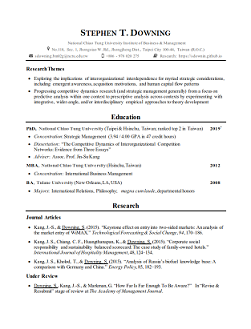
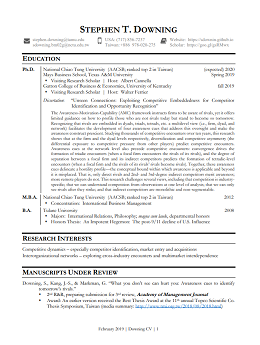
udpates thumbnails and moves cases to teaching sec

diff --git a/_pages/cases.html b/_pages/cases.html
@@ -1,6 +1,6 @@
 ---
 layout: archive
-title: "Business Cases"
+title: "Published Teaching Cases"
 permalink: /cases/
 author_profile: true
 ---

diff --git a/_teaching/2015-02-19-cconma.com-in-south-korea.md b/_teaching/2015-02-19-cconma.com-in-south-korea.md
@@ -1,0 +1,25 @@
+---
+title: "Cconma.com in South Korea: An Innovative E-Commerce Platform"
+collection: teaching
+permalink: /teaching/2015-02-19-cconma-in-south-korea
+excerpt: "<a href='/case/2015-02-19-cconma-in-south-korea'><img src='/images/cconma_in_south_korea_thumbnail_png.png' style='max-height:100px;'></a><br/><br/>We investigate the link between a firm's corporate social performance and financial performance using the service-profit chain model"
+type: "Teaching Case: Undergraduate or First-Year MBA Course"
+date: 2015-02-19
+venue: 'Ivey Cases'
+paperurl: 'https://www.iveycases.com/ProductView.aspx?id=70598'
+---
+
+
+### Summary
+In August 2012, the chief executive officer of Cconma.com, an online shopping mall based in Chung-Ju, South Korea, is considering his company’s future. The company has grown substantially since it was founded in 2005 and is now preparing to further expand into Hong Kong, China or to a second location in the United States. The company’s vision, rooted in an ethic of corporate social responsibility, is to build a happy and healthy community, including employees, customers and sellers. By focusing on its customers’ basic necessities, products for a healthy life and the needs of its producers to minimize sales costs, the company has found its niche where no other online retailer has dared to venture. Its success demonstrates that it is possible to be good and profitable at the same time. Expanding to a new location will bring myriad challenges, some of which can be anticipated while others will need to be resolved on the fly. The management team needs to focus on defining the specifics of their go-to-market plan. When should they enter? With which local players should they collaborate? Will an increased marketing effort or local outreach be necessary?
+
+### Learning Objectives
+The case can be used in courses for undergraduate or first year MBA students on the business model innovation of e-commerce, corporate social responsibility and e-commerce platform strategies. The learning objectives are:
+* To explore how one company finds its niche market based on a vision of corporate social responsibility and redefines its business model on that basis.
+* To explore how corporate social responsibility can be used as a strategy for an e-commerce start-up company.
+* To assess the link between the corporate social performance of the company and its financial performance using the service-profit chain model.
+
+### Links
+* [Publisher website](https://www.iveycases.com/ProductView.aspx?id=70598)
+
+

diff --git a/_pages/about.md b/_pages/about.md
@@ -24,7 +24,7 @@ My research focuses on the following areas:
 - Interorganizational networks, exploring cross-industry encounters, multimarket interdependence, and the embeddedness of language in competition
 
 My dissertation, supervised by Assoc. Prof. Jin-Su Kang, investigates inter-firm competition network dynamics. Combining network analysis methodologies with theories from the competitive dynamics literature, I investigate the factors impacting competition formation, as well as the effects that changes in the network structure have upon strategic decisions, such as product market entries, acquisition target selection, and rivals' reactions.
-[<img src='/images/clarabridge_net_time_slice_colored_dists_c42_s11.png' style="display: block; margin-left: auto; margin-right: auto;">](/talks/2017-08-08-Competitive-Dynamics-Of-Whom-Should-You-Be-Aware  "Competition Network Groups Over Time")       
+[<img src='/images/clarabridge_net_time_slice_colored_dists_c42_s11.png' style="display: block; margin-left: auto; margin-right: auto;">](/research/2017-08-08-Competitive-Dynamics-Of-Whom-Should-You-Be-Aware  "Competition Network Groups Over Time")       
 In the past, I have also had the opportunity to work on projects in myriad areas of strategic management, including platform competition in business ecosystems and two-sided markets, empirical and game-theoretic analysis of corporate social responsibility, and patent citation network analysis for knowledge base comparison.      
 
 

diff --git a/_pages/research.md b/_pages/research.md
@@ -1,6 +1,6 @@
 ---
 layout: archive
-title: "Ongoing, Forthcoming, and Published Research"
+title: "Ongoing and Published Research"
 permalink: /research/
 author_profile: true
 ---
